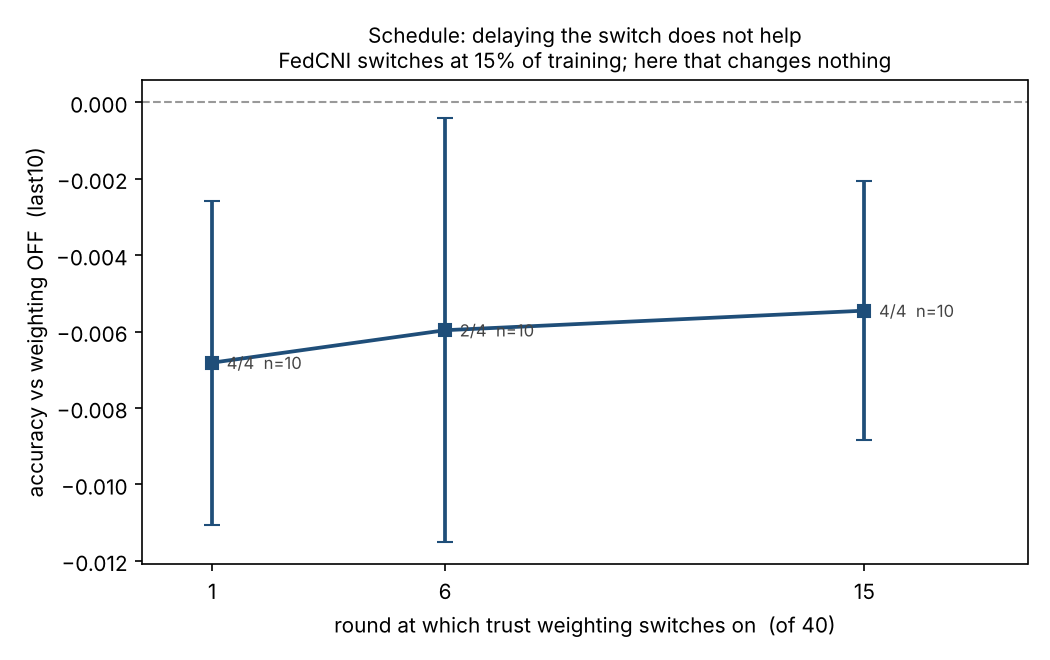
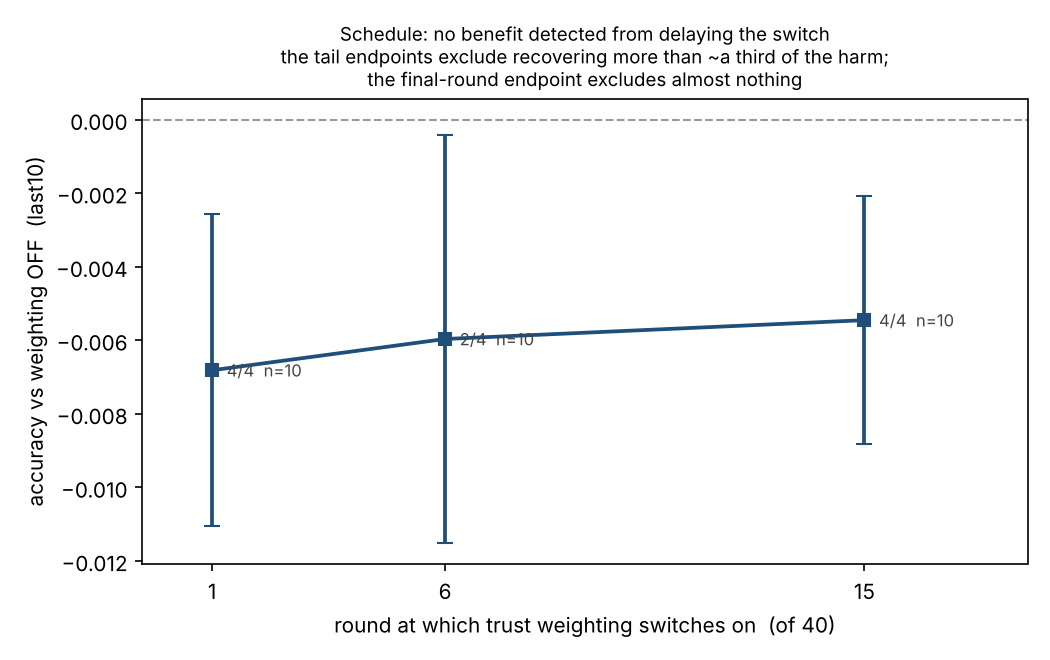
Code review: the floor sweep was confounded by unfloored promoted clients
The review found a design fault in the experiment itself, not just the code.

PROMOTED CLIENTS WERE LEFT UNFLOORED. trust_weight_floor lifted verified
inliers only, while promoted clients kept
sigmoid(c_lambda*(trust-0.5)) * n. At the default c_lambda=8 that bottoms
out at 0.018 -- BELOW the 0.05 inlier floor -- and promoted clients are
about 31% of contributing clients on these runs (123 promoted vs 277
verified on seed 1). Raising the inlier floor to 0.50 would therefore have
moved the promoted:verified balance at the same time as the inlier dose,
and the sweep could not have told those apart. That is a first-order
confound in the only experiment that separates "harm scales with dose" from
"harm comes from near-zero weights", so it had to be fixed before the batch
runs.

The floor now covers promoted clients. Keeping bit-exactness required two
fields, not one: trust_weight_floor defaults to 0.05 and
promoted_weight_floor to 0.0, which is exactly the historical pair. One CLI
flag sets both, and the flag's default is now a SENTINEL rather than 0.05 --
passing 0.05 explicitly is not the historical setting, since it also lifts
the promoted floor from 0.0, and tagging on "value != 0.05" would have given
such a run the same directory name as an untouched one while behaving
differently. Verified: omitting the flag reproduces the existing
sweep_a10_twagg directory name byte-for-byte; 0.05 and 0.50 each get their
own tag.
[…]

diff --git a/experiments/analysis/oracle/plot_dose_and_schedule.py b/experiments/analysis/oracle/plot_dose_and_schedule.py
@@ -71,15 +71,25 @@ def effect(off, arm, endpoint):
 
 def series(root: Path):
     """{seed -> [accuracy per round]}"""
-    out = {}
+    out, seen = {}, {}
     pat = str(root / "**" / f"{ARM}_seed*" / "pipeline_results.json")
     for p in sorted(glob.glob(pat, recursive=True)):
         m = re.search(rf"{ARM}_seed(\d+)", p)
         if not m:
             continue
         a = json.loads(Path(p).read_text()).get("server_accuracies") or []
-        if a:
-            out[str(int(m.group(1)))] = a
+        if not a:
+            continue
+        seed = str(int(m.group(1)))
+        if seed in out:
+            # load_seeds raises on exactly this case; silently keeping the
+            # last path would let the trajectory panel plot a DIFFERENT
+            # configuration from the tables, with no warning.
+            raise RuntimeError(
+                f"duplicate seed {seed} under {root}:\n  {seen[seed]}\n  {p}\n"
+                f"Two configurations are present; point --base at one."
+            )
+        out[seed], seen[seed] = a, p
     return out
 
 
@@ -132,7 +142,12 @@ def fig_dose(plt, b, off, out):
     # above it.
     if 1.0 in xs:
         full = ys[xs.index(1.0)]
-        ax.plot([0, 1], [0, full], color="#c0504d", lw=1.4, ls=":",
+        # Anchor on the MEASURED strength-0 point, not on y=0. The strength-0
+        # arm sits at about +0.0008, so anchoring at the origin drew the
+        # reference line a constant 0.0008 too low and made the measured
+        # points look further above it than they are.
+        base = ys[xs.index(0.0)] if 0.0 in xs else 0.0
+        ax.plot([0, 1], [base, full], color="#c0504d", lw=1.4, ls=":",
                 label="if harm were proportional to strength")
     _annotate(ax, xs, ys, cs, ns)
     ax.set_xlabel("trust_weight_strength  (0 = no weighting, 1 = full)")
@@ -168,9 +183,14 @@ def fig_schedule(plt, b, off, out):
     _annotate(ax, xs, ys, cs, ns)
     ax.set_xlabel("round at which trust weighting switches on  (of 40)")
     ax.set_ylabel(f"accuracy vs weighting OFF  ({QUOTE_EP})")
-    ax.set_title("Schedule: delaying the switch does not help\n"
-                 "FedCNI switches at 15% of training; here that changes "
-                 "nothing", fontsize=10)
+    # Deliberately not "delaying does not help": the head-to-head CI
+    # half-width is 56-57% of the harm at the final-round endpoint, so the
+    # test could not have detected the delay removing half of it. Saying
+    # "no difference" would contradict this script's own console output.
+    ax.set_title("Schedule: no benefit detected from delaying the switch\n"
+                 "the tail endpoints exclude recovering more than ~a third "
+                 "of the harm;\nthe final-round endpoint excludes almost "
+                 "nothing", fontsize=9)
     ax.set_xticks(xs)
     ax.set_xlim(min(xs) - 1.5, max(xs) + 3.5)
     fig.tight_layout()
@@ -186,7 +206,11 @@ def fig_trajectory(plt, b, out):
     if not shared:
         return None
     n = min(min(len(offs[s]) for s in shared), min(len(ons[s]) for s in shared))
-    rounds = list(range(1, n + 1))
+    # server_accuracies[0] is the evaluation BEFORE any training (accuracy
+    # ~0.10, i.e. chance on 10 classes), so index i is round i, not i+1. A
+    # 40-round run yields 41 entries. Labelling from 1 shifted every point
+    # by one and claimed a "round 41" that does not exist.
+    rounds = list(range(0, n))
     mo = [statistics.mean(offs[s][r] for s in shared) for r in range(n)]
     mn = [statistics.mean(ons[s][r] for s in shared) for r in range(n)]
     fig, ax = plt.subplots(figsize=(7.6, 4.4))
@@ -197,11 +221,19 @@ def fig_trajectory(plt, b, out):
         ax.plot(rounds, offs[s][:n], color="#1f4e79", lw=0.4, alpha=0.25)
         ax.plot(rounds, ons[s][:n], color="#c0504d", lw=0.4, alpha=0.25)
     # The jitter band: how much the baseline moves between adjacent rounds.
-    half = n // 2
+    # Band height: the baseline's own per-round standard deviation about its
+    # local level, estimated from successive differences. For a series whose
+    # mean |x[r]-x[r-1]| is d, the per-round sd is about d/sqrt(2) under a
+    # random-walk-free model, so a +-1 sd band has total height ~2*d/sqrt(2)
+    # = d*sqrt(2). An earlier version drew +- jit/2, i.e. total height d --
+    # about 44% too short -- which put the weighted curve OUTSIDE the band
+    # and so showed the opposite of what the panel says.
+    half = max(1, n // 2)
     jit = statistics.mean(abs(offs[s][r] - offs[s][r - 1])
                           for s in shared for r in range(half, n))
-    ax.axhspan(mo[-1] - jit / 2, mo[-1] + jit / 2, color="#999999", alpha=0.18,
-               label=f"round-to-round jitter of the baseline ({jit:.3f})")
+    sd_round = jit / math.sqrt(2.0)
+    ax.axhspan(mo[-1] - sd_round, mo[-1] + sd_round, color="#999999", alpha=0.18,
+               label=f"baseline's own per-round spread (+-1 sd = {sd_round:.3f})")
     ax.set_xlabel("communication round")
     ax.set_ylabel("global model accuracy")
     ax.set_title("Trajectory: the gap is small next to the jitter\n"

diff --git a/src/tavs_v2/tavs_esp_strategy.py b/src/tavs_v2/tavs_esp_strategy.py
@@ -226,6 +226,22 @@ class TavsEspConfig:
     # cleaner control than turning weighting off wholesale.
     trust_weight_floor: float = 0.05
 
+    # Smallest weight multiplier a PROMOTED client can be reduced to.
+    #
+    # Default 0.0 is the historical behaviour: promoted weights were never
+    # floored. That is not the same as "never small" -- the multiplier is
+    # sigmoid(c_lambda*(trust - 0.5)), which at the default c_lambda=8
+    # bottoms out at 0.018, BELOW the 0.05 inlier floor.
+    #
+    # It exists as its own field so the default pair (0.05, 0.0) reproduces
+    # every historical run exactly. The pilot CLI sets BOTH from one
+    # --trust-weight-floor flag, because a floor sweep that lifted only
+    # verified inliers would change the promoted:verified balance at the
+    # same time as the inlier dose -- promoted clients are about 31% of
+    # contributing clients on these runs, so that is a first-order
+    # confound, not a detail.
+    promoted_weight_floor: float = 0.0
+
     # Master switch for BVD outlier detection.
     #
     # Off means every verified client is treated as an inlier and scores 1.0.
@@ -1133,6 +1149,14 @@ class TavsEspStrategy(Strategy):
         # what the signal supports, and a negative one would invert it.
         _strength = max(0.0, min(1.0, float(getattr(
             self.config, "trust_weight_strength", 1.0))))
+        # Defined here, before BOTH weight blocks. The two floors are
+        # separate fields so their DEFAULTS (0.05 inlier, 0.0 promoted) are
+        # exactly the historical behaviour; the pilot CLI sets both from one
+        # flag when a sweep actually wants to move them together.
+        _floor = max(0.0, min(1.0, float(getattr(
+            self.config, "trust_weight_floor", 0.05))))
+        _pfloor = max(0.0, min(1.0, float(getattr(
+            self.config, "promoted_weight_floor", 0.0))))
 
         # Short-circuit at full strength. `1.0 - 1.0*(1.0 - s)` is NOT
         # bit-identical to `s` in IEEE754 -- it differs for 335 of the 999
@@ -1167,10 +1191,25 @@ class TavsEspStrategy(Strategy):
         if disable_trust_agg:
             promoted_weights = {cid: num_examples.get(cid, 1) for cid in P_ids}
         else:
+            # The floor covers promoted clients too. They are ACCEPTED
+            # clients -- trusted on reputation rather than verified this
+            # round -- and leaving them unfloored would have made the floor
+            # sweep measure two things at once. Their multiplier is
+            # sigmoid(c_lambda*(trust - 0.5)), which at the default
+            # c_lambda=8 bottoms out at 0.018, BELOW the historical 0.05
+            # inlier floor. Promoted clients are about 31% of contributing
+            # clients on these runs, so raising the inlier floor to 0.50
+            # while leaving them at 0.018 would shift the promoted:verified
+            # balance as well as the inlier dose, and the experiment could
+            # not tell those apart.
+            #
+            # promoted_weight_floor defaults to 0.0, so max(0.0, x) == x
+            # for the non-negative sigmoid and the default path is
+            # bit-identical to the historical one.
             promoted_weights = {
-                cid: _pull(self.scheduler.bayesian_posterior_weight(
+                cid: max(_pfloor, _pull(self.scheduler.bayesian_posterior_weight(
                     self.scheduler.get_effective_trust(cid, server_round)
-                )) * num_examples.get(cid, 1)
+                ))) * num_examples.get(cid, 1)
                 for cid in P_ids
             }
 
@@ -1180,8 +1219,6 @@ class TavsEspStrategy(Strategy):
         # weight, or soft weighting would leave every attacker a residual voice.
         # Default 0.05 is the historical value; see trust_weight_floor for why
         # it is now configurable.
-        _floor = max(0.0, min(1.0, float(getattr(
-            self.config, "trust_weight_floor", 0.05))))
         soft = getattr(self.config, "soft_outlier_weighting", True)
         if disable_trust_agg:
             verified_weights = {

diff --git a/experiments/pilot_skip_comparison.py b/experiments/pilot_skip_comparison.py
@@ -174,9 +174,14 @@ def _config_tag(args) -> str:
         _str = float(getattr(args, "trust_weight_strength", 1.0))
         if abs(_str - 1.0) > 1e-9:
             parts.append(f"twstr{int(round(_str * 100)):03d}")
-        _flr = float(getattr(args, "trust_weight_floor", 0.05))
-        if abs(_flr - 0.05) > 1e-9:
-            parts.append(f"twflr{int(round(_flr * 100)):03d}")
+        # Tagged whenever the flag is GIVEN, not only when it differs from
+        # 0.05. Passing 0.05 explicitly is not the historical setting: it
+        # also lifts the promoted floor from 0.0 to 0.05. Tagging on
+        # "value != 0.05" would give that run the same directory name as an
+        # untouched one while behaving differently.
+        _flr = getattr(args, "trust_weight_floor", None)
+        if _flr is not None:
+            parts.append(f"twflr{int(round(float(_flr) * 100)):03d}")
     return "_".join(parts)
 
 
@@ -283,8 +288,12 @@ def run_one(arm: str, seed: int, args, skip_rate: float):
             getattr(args, "trust_weighting_start_round", 1) or 1),
         trust_weight_strength=float(
             getattr(args, "trust_weight_strength", 1.0)),
-        trust_weight_floor=float(
-            getattr(args, "trust_weight_floor", 0.05)),
+        # One CLI flag sets BOTH floors. Omitted -> the dataclass defaults
+        # (0.05 inlier, 0.0 promoted), which are the historical pair.
+        **({} if getattr(args, "trust_weight_floor", None) is None else {
+            "trust_weight_floor": float(args.trust_weight_floor),
+            "promoted_weight_floor": float(args.trust_weight_floor),
+        }),
         trust_signal=getattr(args, "trust_signal", "bvd"),
         small_loss_rescale_lo=rescale_lo,
         small_loss_rescale_hi=rescale_hi,
@@ -773,11 +782,18 @@ def main():
                              "which is the controlled version of comparing two "
                              "different trust signals. No effect without "
                              "--trust-weighted-aggregation.")
-    parser.add_argument("--trust-weight-floor", type=float, default=0.05,
+    parser.add_argument("--trust-weight-floor", type=float, default=None,
                         dest="trust_weight_floor",
                         help="Smallest weight multiplier an ACCEPTED client "
-                             "can be reduced to, in [0, 1]. Default 0.05 is "
-                             "the historical value. Raising it at full "
+                             "can be reduced to, in [0, 1]. Sets the floor "
+                             "for verified inliers AND for promoted clients, "
+                             "because promoted clients are about 31%% of "
+                             "contributions and their multiplier bottoms out "
+                             "at 0.018 -- lifting only inliers would change "
+                             "the promoted:verified balance at the same time "
+                             "as the inlier dose. Omit it for the historical "
+                             "pair (0.05 inlier, 0.0 promoted). Raising it at "
+                             "full "
                              "strength separates two explanations the "
                              "strength sweep cannot: whether the harm grows "
                              "with how hard the weighting pulls, or comes "

diff --git a/src/tests/test_tavs_esp_strategy.py b/src/tests/test_tavs_esp_strategy.py
@@ -918,8 +918,16 @@ def test_trust_weight_floor_bounds_inliers_only():
     print("\nTesting trust_weight_floor bounds inliers only...")
 
     from src.tavs_v2 import TavsEspConfig
-    d = float(getattr(TavsEspConfig(), "trust_weight_floor", -1))
-    assert abs(d - 0.05) < 1e-12, f"default floor must stay 0.05, got {d}"
+    _c = TavsEspConfig()
+    d = float(getattr(_c, "trust_weight_floor", -1))
+    assert abs(d - 0.05) < 1e-12, f"default inlier floor must stay 0.05, got {d}"
+    # The PROMOTED default must stay 0.0, which is the historical behaviour
+    # (promoted weights were never floored). Their multiplier is
+    # sigmoid(c_lambda*(trust-0.5)) and bottoms out at 0.018 with
+    # c_lambda=8 -- BELOW the inlier floor -- so defaulting it to 0.05 to
+    # "match" would silently change every existing run.
+    pf = float(getattr(_c, "promoted_weight_floor", -1))
+    assert abs(pf - 0.0) < 1e-12, f"default promoted floor must stay 0.0, got {pf}"
 
     def _run(floor, strength=1.0):
         cfg = DummyConfig()
@@ -996,8 +1004,38 @@ def test_trust_weight_floor_bounds_inliers_only():
     assert _verified_weight(0.0, 1.0, 1.0, 0.05, is_outlier=False) == 0.05, \
         "at strength 1.0 the floor is what binds"
 
-    print("✓ floor default 0.05; raising it changes the aggregate monotonically; "
-          "flagged clients stay at zero; floor binds only above strength 1-floor")
+    # 5. The floor must reach PROMOTED clients too. A floor sweep that
+    #    lifted only verified inliers would move the promoted:verified
+    #    balance at the same time as the inlier dose -- promoted clients are
+    #    ~31% of contributions on these runs and their multiplier bottoms
+    #    out at 0.018, below even the 0.05 inlier floor -- so the experiment
+    #    could not tell the two apart.
+    import math as _math
+    c_lambda = 8.0
+    sigmoid = lambda t: 1.0 / (1.0 + _math.exp(-c_lambda * (t - 0.5)))
+    assert sigmoid(0.0) < 0.05, (
+        f"premise check: a promoted client's multiplier should be able to "
+        f"fall below the 0.05 inlier floor, got {sigmoid(0.0)}"
+    )
+
+    def _promoted_weight(trust, n, strength, pfloor):
+        pull = (lambda s: s) if strength >= 1.0 else (
+            lambda s: 1.0 - strength * (1.0 - s))
+        return max(pfloor, pull(sigmoid(trust))) * n
+
+    # Historical default: no lift at all.
+    assert abs(_promoted_weight(0.0, 1.0, 1.0, 0.0) - sigmoid(0.0)) < 1e-12, \
+        "promoted floor 0.0 must leave the sigmoid untouched"
+    # Swept value: lifted to the floor, same as an inlier.
+    assert _promoted_weight(0.0, 1.0, 1.0, 0.50) == 0.50, \
+        "a swept floor must lift promoted clients to the same minimum"
+    assert _verified_weight(0.0, 1.0, 1.0, 0.50, is_outlier=False) == 0.50, \
+        "...and that minimum must equal the inlier one, or the sweep is confounded"
+
+    print("✓ floor default 0.05 inlier / 0.0 promoted; raising it changes the "
+          "aggregate monotonically; flagged clients stay at zero; floor binds "
+          "only above strength 1-floor; a swept floor lifts promoted and "
+          "inlier clients to the SAME minimum")
     return True
 
 

diff --git a/experiments/analysis/oracle/dose_and_schedule.py b/experiments/analysis/oracle/dose_and_schedule.py
@@ -95,6 +95,8 @@ EXPECTED_DIFFS = {
     "disable_trust_weighted_aggregation",  # the knob itself
     "trust_weight_strength",               # dose arms
     "trust_weighting_start_round",         # schedule arms
+    "trust_weight_floor",                  # floor arms
+    "promoted_weight_floor",               # set together with the above
     # Serialised with default=str, so this is a function repr carrying a
     # memory address -- different in every process, never a real difference.
     "evaluate_fn",
